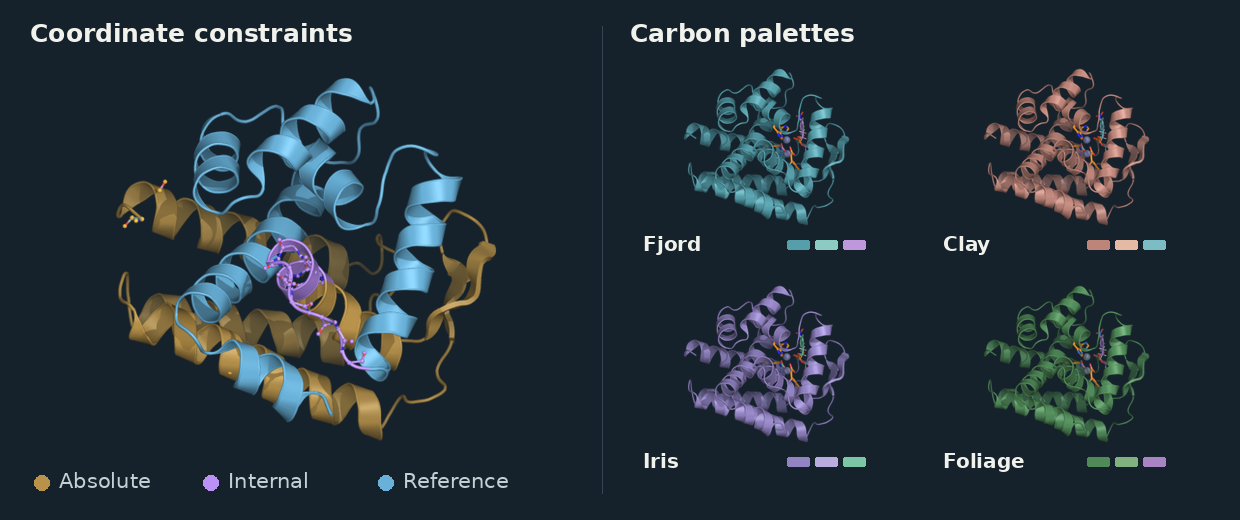
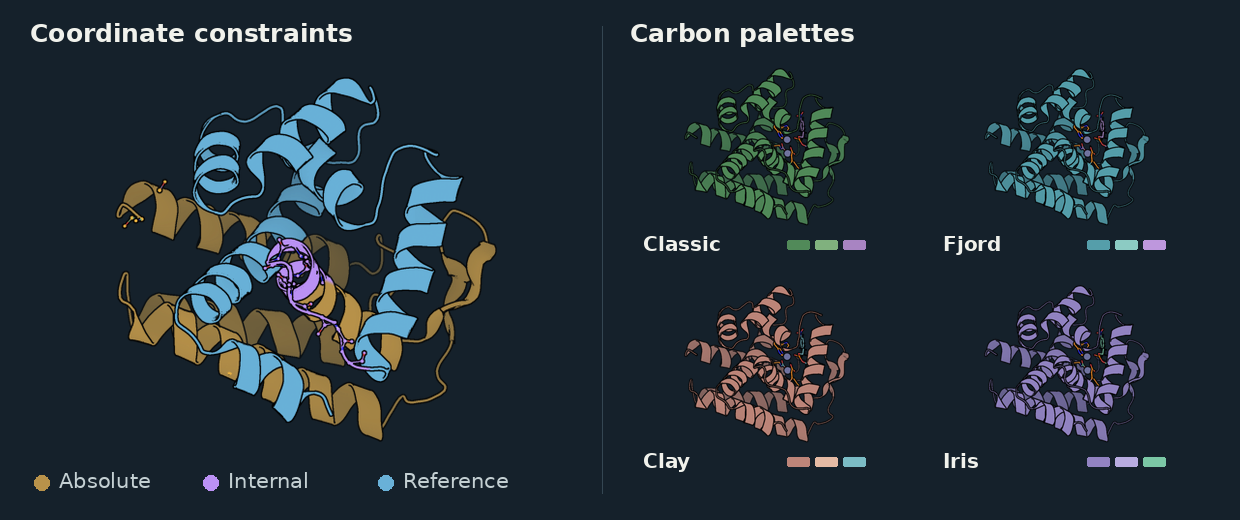
Restore the original matte cartoon and foliage defaults

diff --git a/tests/check_startup_modes.py b/tests/check_startup_modes.py
@@ -19,6 +19,12 @@ def check():
     assert state["autoload"] == detail
     style = cmd.keyword["rfd4_style"][0]
     theme = cmd.keyword["theme"][0]
+    assert theme("list") == "classic"
+    for setting, expected in {"specular": 0, "ray_shadow": 0, "ray_trace_mode": 1,
+                              "power": 0.2, "ambient": 0.4, "direct": 0.45,
+                              "reflect": 1, "reflect_power": 0, "orthoscopic": 1,
+                              "cartoon_fancy_helices": 1, "cartoon_fancy_sheets": 1}.items():
+        assert math.isclose(cmd.get_setting_float(setting), expected, abs_tol=1e-6), setting
     with tempfile.TemporaryDirectory() as directory:
         source = Path(directory) / "a structure.cif"
         data = fixture()
@@ -50,7 +56,7 @@ def check():
         style("sample", fixed_scale=0.12, fixed_color="yellow")
         cmd.hide("sticks", "sample_fixed")
         camera = cmd.get_view()
-        assert theme("next") == "clay" and theme("prev") == "fjord"
+        assert theme("next") == "fjord" and theme("prev") == "classic"
         assert cmd.get_view() == camera
         assert cmd.count_atoms("sample_fixed and rep sticks") == 0
         assert state["objects"]["sample"]["style"]["fixed_color"] == "yellow"
@@ -71,7 +77,12 @@ def check():
         write_dict(source, data)
         cmd.load(str(source), "ordinary")
         assert cmd.count_atoms("ordinary") == 8 and "ordinary" not in state["objects"]
-        assert all(map(math.isfinite, cmd.get_view()))
+        backbone = []
+        cmd.iterate("ordinary and polymer.protein and name CA", "out.append(color)", space={"out": backbone})
+        assert backbone and set(backbone) == {cmd.get_color_index("bb05")}
+        view = cmd.get_view()
+        assert all(map(math.isfinite, view))
+        assert all(math.isclose(a, b, abs_tol=1e-4) for a, b in zip(view[12:15], (4, 0, 0)))
         assert not any("pymolrc_finite" in n for n in cmd.get_names("all"))
         chem = Path(directory) / "elements.pdb"
         symbols = ("N", "O", "S", "P", "H")
@@ -79,7 +90,7 @@ def check():
             f"HETATM{i:5} {sym:>4} LIG A   1    {i * 4:8.3f}{0.:8.3f}{0.:8.3f}  1.00 10.00          {sym:>2}\n"
             for i, sym in enumerate(symbols, 1)) + "END\n")
         cmd.load(str(chem), "chem")
-        for palette in ("fjord", "clay", "iris", "foliage"):
+        for palette in ("classic", "fjord", "clay", "iris", "foliage"):
             theme(palette)
             for sym, stock in zip(symbols, ("nitrogen", "oxygen", "sulfur", "phosphorus", "hydrogen")):
                 colors = []

diff --git a/config/themes.py b/config/themes.py
@@ -1,17 +1,19 @@
 """Named molecular palettes and the interactive PyMOL theme command."""
 from pymol import cmd
 
-# Sidechain carbon, backbone carbon, ligand carbon. Foliage uses the original
-# named colors so personal overrides of those names still work.
+# Sidechain carbon, backbone carbon, ligand carbon. Both green themes refer to
+# the user's original color names so manual set_color overrides still work.
+_FOLIAGE_CARBONS = ("sc05", "bb05", "lig_amethyst3")
 _PYMOLRC_THEMES = {
+    "classic": _FOLIAGE_CARBONS,
     "fjord": ("fjord_mint", "fjord_teal", "fjord_lilac"),
     "clay": ("clay_peach", "clay_terracotta", "clay_aqua"),
     "iris": ("iris_lavender", "iris_violet", "iris_jade"),
-    "foliage": ("sc05", "bb05", "lig_amethyst3"),
+    "foliage": _FOLIAGE_CARBONS,
 }
 _SOFT_ELEMENTS = {"N": "elemN", "O": "elemO", "S": "elemS", "P": "elemP", "H": "elemH"}
 if not hasattr(cmd, "_pymolrc_theme"):
-    cmd._pymolrc_theme = "fjord"
+    cmd._pymolrc_theme = "classic"
 
 
 def _color_structure(selection, _self=cmd, carbons=None, palette=None):
@@ -31,13 +33,15 @@ def _color_structure(selection, _self=cmd, carbons=None, palette=None):
 
 
 def theme(name="list", _self=cmd):
-    """theme [list|next|prev|fjord|clay|iris|foliage]. Applies to open and future structures."""
+    """theme [list|next|prev|classic|fjord|clay|iris|foliage]. Applies to open and future structures."""
     names = list(_PYMOLRC_THEMES)
     current = _self._pymolrc_theme
     name = str(name).lower().strip()
     if name in ("", "list"):
         for key, colors in _PYMOLRC_THEMES.items():
-            print((" * " if key == current else "   ") + key + "  " + " / ".join(colors))
+            elements = "soft" if key == "foliage" else "standard"
+            print((" * " if key == current else "   ") + key + "  " + " / ".join(colors)
+                  + "  (" + elements + " element colors)")
         return current
     if name in ("next", "prev"):
         step = 1 if name == "next" else -1

diff --git a/config/session.py b/config/session.py
@@ -666,7 +666,7 @@ def _restore_finite_view(previous, new, had_objects):
     try:
         for obj in new:
             indices = []
-            cmd.iterate_state(1, obj, "if finite(x) and finite(y) and finite(z): keep.append(index)",
+            cmd.iterate_state(1, obj, "keep.append(index) if finite(x) and finite(y) and finite(z) else None",
                               space={"finite": math.isfinite, "keep": indices})
             if indices:
                 name = cmd.get_unused_name("_pymolrc_finite")

diff --git a/config/rendering.py b/config/rendering.py
@@ -1,8 +1,6 @@
 """Structure palettes, publication rendering and ball-and-stick views."""
 from pymol import cmd
 
-_DEFAULT_SPECULAR = cmd.get_setting_float("specular")
-_DEFAULT_SHININESS = cmd.get_setting_float("shininess")
 
 def publication_ray_trace(filename="publication_ray.png", width=3200, height=2400,
                           dpi=300, transparent=0, _self=cmd):

diff --git a/docs/COLORS.md b/docs/COLORS.md
@@ -1,17 +1,18 @@
 # Molecular palettes
 
-Type `theme next` or `theme prev` in PyMOL to cycle through the four looks. `theme list` marks the active one. Selecting a palette changes the open structures and sets the colors for subsequent loads in the session. The camera stays in place.
+Type `theme next` or `theme prev` in PyMOL to cycle through the palettes. `theme list` marks the active one. Selecting a palette changes the open structures and sets the colors for subsequent loads in the session. All palettes share the original matte lighting, orthographic camera, and black outlines on ray renders.
 
 ![The same molecular view in each palette and a synthetic coordinate mask](viewer-guide.png)
 
 | Theme | Sidechain carbon | Backbone carbon | Ligand carbon |
 |---|---|---|---|
-| `fjord` (default) | Mint `#8CCBC3` | Teal `#559EAA` | Lilac `#BE97DD` |
+| `classic` (default) | Sage `sc05` | Forest `bb05` | Amethyst `lig_amethyst3` |
+| `fjord` | Mint `#8CCBC3` | Teal `#559EAA` | Lilac `#BE97DD` |
 | `clay` | Peach `#E4BAA4` | Terracotta `#BD8579` | Aqua `#7BBCC5` |
 | `iris` | Lavender `#B8ACE0` | Violet `#9283C2` | Jade `#7BC7A5` |
 | `foliage` | Sage `sc05` | Forest `bb05` | Amethyst `lig_amethyst3` |
 
-Fjord, Clay, and Iris use PyMOL’s stock element colors, including blue nitrogen, red oxygen, yellow sulfur, and bright orange phosphorus (`#FF8000`). Foliage restores the original soft element palette. The older custom RGB that previously replaced PyMOL’s built-in `nitrogen` is available as `legacy_nitrogen`.
+Classic, Fjord, Clay, and Iris use PyMOL’s stock element colors, including blue nitrogen, red oxygen, yellow sulfur, and bright orange phosphorus (`#FF8000`). Foliage uses the same protein and ligand colors as Classic with the original soft element palette. The older custom RGB that previously replaced PyMOL’s built-in `nitrogen` is available as `legacy_nitrogen`.
 
 The named `sc01`–`sc10`, `bb01`–`bb10`, amethyst, Seaborn, and RFdiffusion palettes are available to existing scripts. `color_palette` applies the original per-object foliage cycle, alignment, and ligand shell. The three `color_bb_rfdiffusion*` commands apply residue gradients. [Gradient examples](COMMANDS.md) · [Original foliage render](foliage-original.png)
 

diff --git a/README.md b/README.md
@@ -2,9 +2,11 @@
 
 Open a structure with `pymol`. Use `pymolrfd4` to inspect coordinate and sequence annotations in RFdiffusion4-Proteina CIFs. Both commands accept the usual PyMOL flags and multiple files.
 
-![Coordinate constraints on a protein cartoon alongside the Fjord, Clay, Iris, and Foliage color schemes](docs/viewer-guide.png)
+![Coordinate constraints on a protein cartoon alongside the Classic, Fjord, Clay, and Iris carbon palettes](docs/viewer-guide.png)
 
 The left panel uses illustrative masks on backbone coordinates from the bundled example. The four palette previews use the same structure and camera.
+
+Ordinary structures open with the original matte green cartoons and amethyst ligand carbons. Ray-traced images have black outlines. Nitrogen is blue, oxygen red, sulfur yellow, and phosphorus bright orange.
 
 ## Install
 
@@ -29,10 +31,13 @@ pymolrfd4 prediction.cif annotated.cif -d 'set grid_mode, 1'
 
 The second command places the two structures side by side. The prediction keeps its molecular palette. The annotated structure shows absolute coordinate targets in ochre with gold beads, internal groups in lilac, and reference backbone in blue. Sticks retain chemical element colors. Inside an ordinary session, `rfd4_load annotated.cif, motif` opens one annotated copy.
 
+For a large batch, put one structure path per line in `models.txt` and run `pymolrfd4 -d 'browse_list models.txt'`. All structures are loaded, the first is shown, and Page Up and Page Down switch between them. Passing the paths directly to `pymolrfd4` displays them together.
+
 | In PyMOL | Action |
 |---|---|
 | `theme next`, `theme prev` | Preview the next or previous palette on open structures |
-| `theme foliage` | Restore foliage greens, amethyst ligands, and soft element colors |
+| `theme classic` | Return to the startup colors |
+| `theme foliage` | Use the same greens and amethyst with the original soft element colors |
 | `rfd4_style , coordinates, markers=all` | Show every coordinate-conditioned atom as a small sphere |
 | `rfd4_style , sequence` | Inspect fixed and free residue identities |
 | `rfd4_style , legacy` | Use the original cyan/orange atom view and reference lines |
